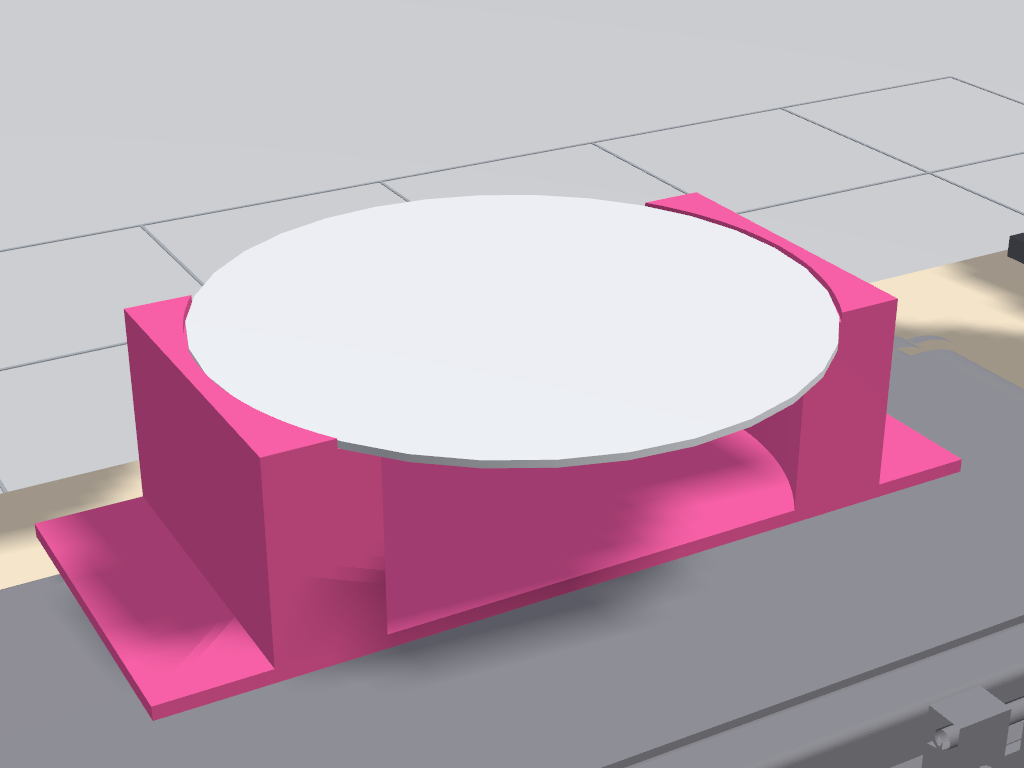
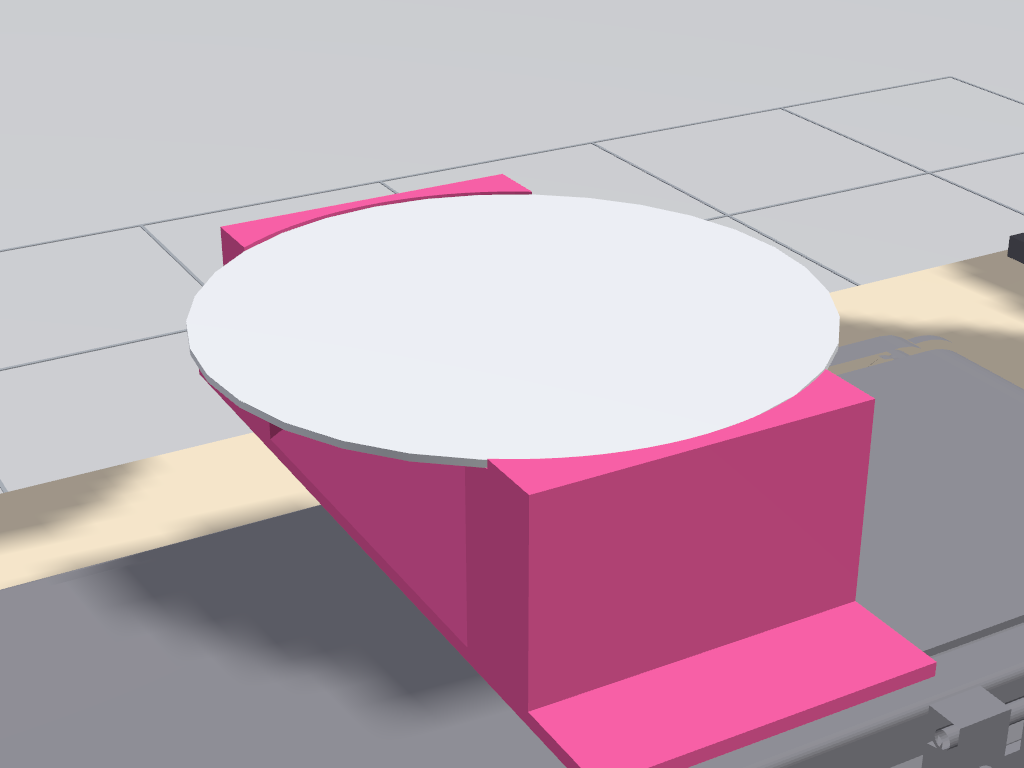
Belt holder across the belt; real fork hand-off from the owner's video, stand-in removed
The owner's clip "How to move dobot and place wafer on magenta color holder
on the belt.mp4" (72 frames analysed) shows the holder's 180 mm side lying
ACROSS the belt with the posts at the belt's front and rear. The fork slides
the wafer in along the belt between the posts, sets it down and backs out
underneath. The previous build had the posts at the belt-axis ends, which
made that motion impossible and forced the drop experiments and the
set_pose stand-in.

- conveyor.urdf.xacro: holder yawed +90 deg about Z (roll -90, yaw +90,
  +45 mm); header rewritten.
- cell_plan.py: M1_INSERT_INTO_NEST at lip + 2 mm, M1_SET_DOWN to seat +
  0.3 mm, FORK_DETACH, M1_DROP_BLADE to seat - 4 mm, NEST_ATTACH,
  M1_RETREAT under the wafer. NEST_HOLD / NEST_DROP / NEST_SEAT removed.
- wafer_seat.py removed (sequencer, shadow driver, CMake, README follow).
- detail_belt_cam re-aimed end-on along the belt so both posts and the blade
  under the wafer are visible.
- Docs: CLAUDE.md, HANDOVER, PROJECT_CONTEXT, research review; verification
  captures replaced with cycle 15 and the video frames.

Verified: full cycle completes; the wafer is set down at seat height with
0.0 mm offset, rides seated, ends at the blue nest centre; check_extents
clean; streamed pose probe shows 0.0 deg tilt through hand-off and ride.

Changed region(s): [[0.0312, 0.25, 0.9375, 1.0], [0.2188, 0.2188, 0.5312, 0.3438]]

diff --git a/src/wafer_cell_bringup/scripts/cell_plan.py b/src/wafer_cell_bringup/scripts/cell_plan.py
@@ -6,7 +6,6 @@ The cell's cycle as ONE table, used by three consumers:
   * shadow tests           compare a recorded real cycle against it
 
 STEPS rows: (state name, kind, payload, nominal duration s)
-  kind 'seat'             : place the wafer on the belt holder's seat (stand-in, wafer_seat.py)
   kind 'm1pro' / 'pro600' : payload = waypoint key from build_waypoints()
   kind 'belt'             : payload = (x_from, x_to); duration = |dx| / belt_speed
   kind 'dwell'            : duration = dwell_b parameter
@@ -36,17 +35,14 @@ STEPS = [
     ('M1_LIFT',               'm1pro',  'lift',               1.0),
     ('M1_TO_BELT',            'm1pro',  'to_belt',            3.0),
     ('M1_LOWER_TO_NEST',      'm1pro',  'belt_approach',      1.0),
-    ('M1_INSERT_INTO_NEST',   'm1pro',  'belt_insert',        2.0),
-    # STAND-IN for the real release (owner to confirm the real mechanism):
-    # the holder's crescent posts block a blade under a seated wafer, so the
-    # sim hands the wafer from the fork to the holder joint 3.5 mm above the
-    # seat, withdraws the fork, then lets it drop into the lip and settle.
-    ('NEST_HOLD',             'grasp',  ('nest', True),       GRASP_SETTLE),
+    ('M1_INSERT_INTO_NEST',   'm1pro',  'belt_insert',        2.0),   # wafer 2 mm above the lip, between the posts
+    # Hand-off as in the owner's video (2026-09-04): the posts stand at the
+    # belt's front and rear, the blade runs along the belt between them.
+    ('M1_SET_DOWN',           'm1pro',  'belt_set',           1.0),   # lower until the wafer is 0.3 mm above the seat
     ('FORK_DETACH',           'grasp',  ('fork', False),      GRASP_SETTLE),
-    ('M1_RETREAT',            'm1pro',  'belt_retreat',       1.5),
-    ('NEST_DROP',             'grasp',  ('nest', False),      0.3),
-    ('NEST_SEAT',             'seat',   None,                 0.5),   # stand-in: place on the seat (wafer_seat.py)
+    ('M1_DROP_BLADE',         'm1pro',  'belt_free',          0.8),   # blade 4 mm below the seated wafer
     ('NEST_ATTACH',           'grasp',  ('nest', True),       GRASP_SETTLE),
+    ('M1_RETREAT',            'm1pro',  'belt_retreat',       1.5),   # back out under the wafer, between the posts
     ('M1_HOME',               'm1pro',  'home',               3.0),
     ('BELT_A_TO_B',           'belt',   (BELT_A, BELT_B),     None),
     ('BELT_DWELL_B',          'dwell',  None,                 None),
@@ -78,11 +74,13 @@ def build_waypoints(chain, log=None):
     z_pick = SHELF_Z[2] - FORK_UNDER      # slide in well under the wafer
     z_engage = SHELF_Z[2] + FORK_LIFT     # raise: the tines lift the wafer 1 mm off its shelf, then it is welded
     z_carry = SHELF_Z[2] + CLEAR
-    # The belt holder's posts sit at the belt-axis ends, so the blade cannot
-    # pass under the wafer past a post: it releases the wafer with the blade
-    # just above the post tops and the wafer drops ~7 mm into the lip.
-    z_place = HOLDER_POST_TOP + 0.003 + 0.0005    # blade top: 3 mm blade + 0.5 mm clearance above the posts; the wafer is then seated by NEST_SEAT
-    z_free = z_place                              # no lowering; retreat at the same height
+    # Belt holder hand-off as in the owner's video: the posts stand at the belt's
+    # front and rear, so the blade travels ALONG the belt between them. Carry the
+    # wafer in 2 mm above the lip, lower it to 0.3 mm above the seat, release,
+    # drop the blade 4 mm under the seated wafer and back out between the posts.
+    z_hi = HOLDER_POST_TOP + 0.002                # blade top = wafer underside while sliding in over the lip
+    z_set = NEST_SEAT_Z + 0.0003                  # wafer underside 0.3 mm above the seat at release
+    z_free = NEST_SEAT_Z - FORK_UNDER             # blade top 4 mm below the seat (blade bottom 36 mm, plate top 3 mm)
     w_top_nest = NEST_SEAT_Z + WAFER_THICKNESS
     w_top_blue = SHELF_Z[2] + WAFER_THICKNESS
 
@@ -99,9 +97,10 @@ def build_waypoints(chain, log=None):
     # the wafer's rim (streamed probe 2026-09-04: pitched it 20 deg, later flipped it).
     for key, tgt in [('back_high', (yx - APPROACH, yy, z_carry)),
                      ('approach', (yx - APPROACH, yy, z_pick)), ('insert', (yx, yy, z_pick)),
-                     ('engage', (yx, yy, z_engage)), ('lift', (yx, yy, z_carry)), ('to_belt', (BELT_A - APPROACH, belt_y, z_place + CLEAR)),
-                     ('belt_approach', (BELT_A - APPROACH, belt_y, z_place)), ('belt_insert', (BELT_A, belt_y, z_place)),
-                     ('belt_lower', (BELT_A, belt_y, z_free)), ('belt_retreat', (BELT_A - APPROACH, belt_y, z_free))]:
+                     ('engage', (yx, yy, z_engage)), ('lift', (yx, yy, z_carry)), ('to_belt', (BELT_A - APPROACH, belt_y, z_hi + CLEAR)),
+                     ('belt_approach', (BELT_A - APPROACH, belt_y, z_hi)), ('belt_insert', (BELT_A, belt_y, z_hi)),
+                     ('belt_set', (BELT_A, belt_y, z_set)), ('belt_free', (BELT_A, belt_y, z_free)),
+                     ('belt_retreat', (BELT_A - APPROACH, belt_y, z_free))]:
         s = m[key] = ik(M1PRO_JOINTS, 'm1pro_fork_seat', tgt, FORK_AX, s)
     m['home'] = [HOME[j] for j in M1PRO_JOINTS]
 

diff --git a/src/wafer_cell_shadow/scripts/shadow_driver.py b/src/wafer_cell_shadow/scripts/shadow_driver.py
@@ -29,14 +29,10 @@ from rclpy.qos import QoSProfile, DurabilityPolicy
 
 LATCHED = QoSProfile(depth=1, durability=DurabilityPolicy.TRANSIENT_LOCAL)
 from shadow_common import M1PRO_JOINTS, PRO600_JOINTS, BELT_A
-from cell_layout import BELT_XYZ, NEST_SEAT_Z, WAFER_THICKNESS
-from wafer_seat import seat_wafer
 
 GRASP_EVENTS = {'FORK_ATTACH': ('fork', True), 'FORK_DETACH': ('fork', False),
-                'NEST_HOLD': ('nest', True), 'NEST_DROP': ('nest', False),
                 'NEST_ATTACH': ('nest', True), 'NEST_DETACH': ('nest', False),
                 'CUP_ATTACH': ('cup', True), 'CUP_DETACH': ('cup', False),
-                'NEST_SEAT': 'seat',   # stand-in: place the wafer on the seat (wafer_seat.py)
                 'RELEASE_ALL': None}
 
 
@@ -95,8 +91,6 @@ class ShadowDriver(Node):
                 if ev is None:
                     for c in ('fork', 'cup', 'nest'):
                         self.grasp[f'{c}/detach'].publish(Empty())
-                elif ev == 'seat':
-                    seat_wafer(BELT_A, BELT_XYZ[1], NEST_SEAT_Z + WAFER_THICKNESS / 2 + 0.0003)  # 0.3 mm above the seat: placed touching, it sank 0.3 mm into the contact
                 else:
                     carrier, attach = ev
                     self.grasp[f"{carrier}/{'attach' if attach else 'detach'}"].publish(Empty())

diff --git a/src/wafer_cell_bringup/scripts/cell_sequencer.py b/src/wafer_cell_bringup/scripts/cell_sequencer.py
@@ -32,8 +32,7 @@ from ament_index_python.packages import get_package_share_directory
 
 sys.path.insert(0, str(Path(__file__).resolve().parent))
 from cell_fk import Chain
-from cell_layout import M1PRO_JOINTS, PRO600_JOINTS, GRASP_LINKS, BELT_A, BELT_XYZ, NEST_SEAT_Z, WAFER_THICKNESS
-from wafer_seat import seat_wafer
+from cell_layout import M1PRO_JOINTS, PRO600_JOINTS, GRASP_LINKS
 from cell_plan import STEPS, build_waypoints
 
 
@@ -138,10 +137,7 @@ class Sequencer(Node):
                     time.sleep(dwell)
             elif kind == 'grasp':
                 self.grab(payload[0], payload[1], settle=dur)
-            elif kind == 'seat':
-                ok = seat_wafer(BELT_A, BELT_XYZ[1], NEST_SEAT_Z + WAFER_THICKNESS / 2 + 0.0003)  # 0.3 mm above the seat: placed touching, it sank 0.3 mm into the contact
-                self.get_logger().info(f'   wafer placed on the belt holder seat: {ok}')
-                time.sleep(dur)
+
 
 
 def main():

diff --git a/CLAUDE.md b/CLAUDE.md
@@ -177,22 +177,23 @@ nest welds it to the fork across the bench and the next move flings it. Only
 send attach when the carrier is at the wafer (the fake devices therefore run one
 cycle and hold).
 
-**The belt carriage is `meshes/belt_holder.stl` lying PLATE-DOWN** (owner,
-2026-09-04): a 180 × 70 plate on the belt with two 45 mm posts at the belt-axis
-ends, concave 57.5 mm arcs on their inner faces, a ring seat at 43 mm and a
-2 mm lip of radius ≈64 mm. The STL is modelled plate-up, so the xacro rolls it
-180° and lifts it 45 mm. A blade under the wafer cannot pass a post along the
-belt. Each post is a thin crescent (6.5–8 mm radially, full 70 mm across) and
-the fork's slot is only ≈19 mm wide, so with this STL a blade cannot be under a
-seated wafer at all, yet the cycle video shows exactly that. **Open question for
-the owner: how does the real fork get out from under the wafer at the belt
-holder?** Until answered, `cell_plan.py` uses a STAND-IN hand-off: the fork
-stops 0.5 mm above the posts, the holder joint takes the wafer (`NEST_HOLD`),
-the fork withdraws, the holder releases it (`NEST_DROP`), the wafer is placed
-on the seat by `set_pose` (`NEST_SEAT`, see the drop trap below), then the
-holder grips it for the ride (`NEST_ATTACH`). The C-nest
-3MF in `~/Downloads` is NOT the belt part (its rim is Ø124, the wafer is Ø127)
-and was removed from the repo.
+**The belt carriage is `meshes/belt_holder.stl` lying PLATE-DOWN with its
+180 mm side ACROSS the belt** (owner's hand-off video, 2026-09-04 evening,
+`~/Downloads/How to move dobot and place wafer on magenta color holder on
+the belt.mp4`, 72 frames analysed): a 180 × 70 plate on the belt, two 45 mm
+posts at the belt's FRONT and REAR (overhanging the rails ~25 mm each side),
+concave 57.5 mm arcs on their inner faces, a ring seat at 43 mm and a 2 mm
+lip of radius ≈64 mm. The STL is modelled plate-up, so the xacro rolls it
+−90° about X, yaws it +90° and lifts it 45 mm. The fork slides the wafer in
+ALONG the belt between the posts 2 mm above the lip, lowers it to 0.3 mm
+above the seat, releases, drops the blade 4 mm and backs out underneath
+(`cell_plan.py`: `M1_SET_DOWN`, `FORK_DETACH`, `M1_DROP_BLADE`,
+`NEST_ATTACH`, `M1_RETREAT`). No stand-in remains. An earlier build had the
+posts at the belt-axis ends; that made this hand-off impossible, cost a day of
+drop experiments and a `set_pose` stand-in, and was wrong: when a hand-off
+looks impossible, check the fixture's orientation against the video first.
+The C-nest 3MF in `~/Downloads` is NOT the belt part (its rim is Ø124, the
+wafer is Ø127) and was removed from the repo.
 
 **Wafer vs nest geometry (measured off the STLs):** wafer Ø127.0; tower step
 wall r = 64 with a 6.5 mm ledge (r 57.5…64) under it; belt holder lip r ≈ 64
@@ -233,18 +234,15 @@ A joint-space move of the 6-axis Pro 600 bows sideways mid-path (5 mm over a
 `cell_plan.py` inserts `near_c` / `near_blue` waypoints 20 mm above the wafer
 and descends from there.
 
-**Trap: a free drop into the belt holder is a lottery.** Released from the
-fork the wafer falls 5.5 mm onto the holder's two crescent seats (the blade
-must clear the 45 mm posts, the seat is at 43 mm). In 3 of 5 runs the disc
-landed ~3° tilted and then climbed at ~15 mm/s until it stood at 23°, and the
-holder welded it that way for the ride; teleported onto the seat, or dropped
-level, it was stable, and the yellow tower (static) never misbehaved. The
-carriage is position-driven (`JointPositionReset`), so its contacts are
-kinematic. The ODE `max_vel` / `min_depth` tags in `models/wafer.sdf` do
-NOT fix it: DART solves the contacts itself and one lucky run misled me. The
-cycle therefore places the wafer on the seat with Gazebo's `set_pose`
-(`NEST_SEAT`, `wafer_seat.py`) between the release and the re-grip: a
-declared STAND-IN until the owner says how the real cell lowers it.
+**Trap: a free drop onto a position-driven fixture is a lottery.** When
+the holder was still end-posted the wafer had to fall 5.5 mm onto two
+crescent seats; in 3 of 5 runs it landed ~3° tilted and climbed at ~15 mm/s
+until it stood at 23°, welded that way for the ride. Teleported onto the seat,
+or dropped level, it was stable; the static yellow tower never misbehaved.
+The carriage is position-driven (`JointPositionReset`), so its contacts are
+kinematic. ODE `max_vel` / `min_depth` tags do nothing here: DART solves the
+contacts itself, and one lucky run misled me. With the holder oriented
+correctly the wafer is set down 0.3 mm above the seat and the problem is gone.
 
 **Both nests open toward −X** (owner, 2026-09-04). The 2026-09-02 photograph
 shows the blue one opening +X; the owner's instruction wins, noted in

diff --git a/docs/verification_2026-09-04/README.md b/docs/verification_2026-09-04/README.md
@@ -1,11 +1,25 @@
-# Verification captures, 2026-09-04 (cycle 14)
+# Verification captures, 2026-09-04
 
-* `cycle14_closeups.jpg` — the four close-up cameras through one full cycle:
-  yellow pick (insert, engage, lift), belt hand-off (insert, retreat, holder
-  grip), unloading end (cup descend, lift), final blue nest, front view.
-  Pose log of the same run: wafer rides the belt seated (0.0 mm off the
-  carriage centre, 43.7 mm above the belt = seat + half thickness) and ends
-  at (0.4300, −0.1530, 0.0997), the blue nest centre at ledge height.
-* `belt_holder_seated_at_C.png` — the disc inside the lip after the ride.
-* `belt_holder_free_drop_failure.png` — what the free 5.5 mm drop did in 3 of
-  5 runs before `NEST_SEAT` (the disc standing on edge, welded for the ride).
+## Cycle 15 (current): real hand-off, holder across the belt
+
+* `cycle15_closeups.jpg` — the four close-up cameras through one full cycle:
+  yellow pick, belt hand-off seen END-ON along the belt (insert between the
+  posts 2 mm above the lip, set down, blade dropped 4 mm, retreat underneath,
+  wafer left seated), unloading end (release, cup descend), final blue nest,
+  front and plan views.
+  Pose log of the run: set down at 43.7 mm above the belt (seat + half
+  thickness), 0.0 mm off the carriage centre; rides seated; ends at
+  (0.4300, −0.1530, 0.0997), the blue nest centre at ledge height.
+* `belt_holder_seated_at_C.png` — the disc inside the lip after the ride,
+  posts at the belt's front and rear.
+* `owner_video_handoff_frames_19-27.jpg`, `..._46-54.jpg` — zoomed frames of
+  the owner's video "How to move dobot and place wafer on magenta color holder
+  on the belt.mp4" (2.4 s, 30 fps): the fork slides the wafer in along the
+  belt between front and rear posts, sets it down, backs out underneath.
+  This is what fixed the model: the holder had been built with its posts at
+  the belt-axis ends.
+
+## Earlier the same day (superseded)
+
+* `belt_holder_free_drop_failure.png` — with the end-posted holder the wafer
+  had to be dropped 5.5 mm; in 3 of 5 runs it ended standing on edge.

diff --git a/HANDOVER.md b/HANDOVER.md
@@ -135,23 +135,25 @@ primitive collisions on every M1 Pro link. Real-mode client libraries are in
 `~/venvs/wafer_shadow` (🟢 regenerable: `python3 -m venv --system-site-packages
 ~/venvs/wafer_shadow && pip install pymycobot pycomm3`).
 **Corrections 2026-09-04, evening (owner's five points):** belt carriage is
-`belt_holder.stl` plate-down with the posts up; Pro 600 recoloured; blue nest
+`belt_holder.stl` plate-down, posts up, 180 mm side ACROSS the belt (posts
+front and rear, per the owner's hand-off video); Pro 600 recoloured; blue nest
 turned to open −X like the yellow one; wafer Ø127 checked against all three
 nests (0.5 mm radial clearance each); wafer seating fixed end to end. The
 seating needed five root causes, all in `CLAUDE.md` traps: the fork's
 approach point clipped the wafer's rim (now 115 mm back, descend, slide in,
 lift 1 mm), the cup's collision ran 9 mm past its tip, the Pro 600's
 joint-space descents bowed 5 mm (20 mm `near_*` waypoints), a third M1 Pro
-vendor defect (elbow rolled 1°), and the free drop into the belt holder
-kicked the disc (now placed by `set_pose`, `NEST_SEAT`, a declared
-stand-in). Cycle verified: the wafer rides seated to 0.2 mm and ends in
+vendor defect (elbow rolled 1°), and the holder's orientation: with the
+posts at the belt-axis ends the fork could not set the wafer down and a free
+drop kicked it; across the belt, as in the video, the fork slides in between
+the posts, sets the wafer down and backs out underneath, with no stand-in.
+Cycle verified: the wafer rides seated to 0.2 mm and ends in
 the blue nest 0.3 / 0.5 mm off centre at ledge height. Four close-up cameras
 (`/detail_yellow_cam`, `/detail_belt_cam`, `/detail_beltc_cam`,
 `/detail_blue_cam`) exist for the next round.
 **What is NOT done:** the shadow against real hardware (no bench LAN, no tag
 names, no joint conventions yet), any measured yaw or pendant rest pose, the
-PLC sequence details (dwell), and the owner's answer on how the real fork
-lowers the wafer the last 5 mm into the belt holder.
+PLC sequence details (dwell).
 
 ## Git
 

diff --git a/docs/research_2026-09-03/RESEARCH_REVIEW.md b/docs/research_2026-09-03/RESEARCH_REVIEW.md
@@ -319,10 +319,11 @@ docs/research_2026-09-03/
   wrong (rim Ø124 < wafer Ø127). Both nests open toward −X per the owner.
   Wafer/nest fit measured off the STLs: tower step wall r 64 over a 6.5 mm
   ledge, holder lip r ≈ 64 over a seat at 43 mm; the Ø127 wafer fits both
-  with ≈0.5 mm clearance. Consequences: the fork releases the wafer just
-  above the holder posts and the last 5.5 mm onto the seat is a declared
-  `set_pose` stand-in (`NEST_SEAT`; a free drop kicked the disc in 3 of 5
-  runs), controller goal tolerances tightened to 0.0005 rad / 0.3 mm, and
+  with ≈0.5 mm clearance. The holder's 180 mm side lies ACROSS the belt,
+  posts front and rear (owner's hand-off video, 2026-09-04 evening): the
+  fork slides the wafer in along the belt between the posts, sets it down
+  0.3 mm above the seat and backs out underneath. Consequences: controller
+  goal tolerances tightened to 0.0005 rad / 0.3 mm, and
   four close-up cameras added for seating checks. The seating itself needed
   four more fixes, all logged as traps in `CLAUDE.md`: the fork's approach
   point clipped the wafer rim, the cup's collision ran 9 mm past its tip, the

diff --git a/src/wafer_cell_shadow/README.md b/src/wafer_cell_shadow/README.md
@@ -44,7 +44,7 @@ you check that the sim follows the recording.
 | Belt position | dead-reckoned from `belt_run` × `belt_speed`, sign from `belt_reverse` (stepper DIR tag, if exposed), reset to A at `CYCLE_DONE`: the real belt has no sensor |
 | Grasp timing | the sim arm trails the real one by ~one trajectory horizon; the driver applies grasp events after `event_delay` (0.35 s) so the sim fork has arrived |
 | Grasp events with a real PLC that has no step tag | needs inference from belt/vacuum edges — not written |
-| `NEST_HOLD` / `NEST_DROP` / `NEST_SEAT` steps | a sim stand-in for the wafer hand-off into the belt holder (see CLAUDE.md); a real PLC has no such signals, the driver treats them as holder attach/detach |
+| `M1_SET_DOWN` / `M1_DROP_BLADE` steps | a sim stand-in for the wafer hand-off into the belt holder (see CLAUDE.md); a real PLC has no such signals, the driver treats them as holder attach/detach |
 
 ## Real mode prerequisites
 

diff --git a/PROJECT_CONTEXT.md b/PROJECT_CONTEXT.md
@@ -464,9 +464,10 @@ pkill -9 -x gz-sim-server
 > was the wrong part and is gone); the wafer sits on its 43 mm seat inside a
 > 2 mm lip of radius 64. The fork's wafer seat is 147 mm from the wrist (tips
 > 30 mm past the wafer centre, inside the nests' 57.5 mm free radius). All
-> three remain 🟡 until measured. The wafer's last 5 mm into the holder is a
-> `set_pose` stand-in (`NEST_SEAT`) until the owner explains the real
-> mechanism: a blade cannot pass the 45 mm posts along the belt.
+> three remain 🟡 until measured. The holder's 180 mm side lies ACROSS the
+> belt with the posts front and rear (owner's hand-off video, 2026-09-04
+> evening); the fork slides the wafer in along the belt between the posts,
+> sets it down and backs out underneath.
 
 The owner reviewed the Gazebo build against a reference render and confirmed
 **all four** of the following are wrong. No changes were made: they are recorded
